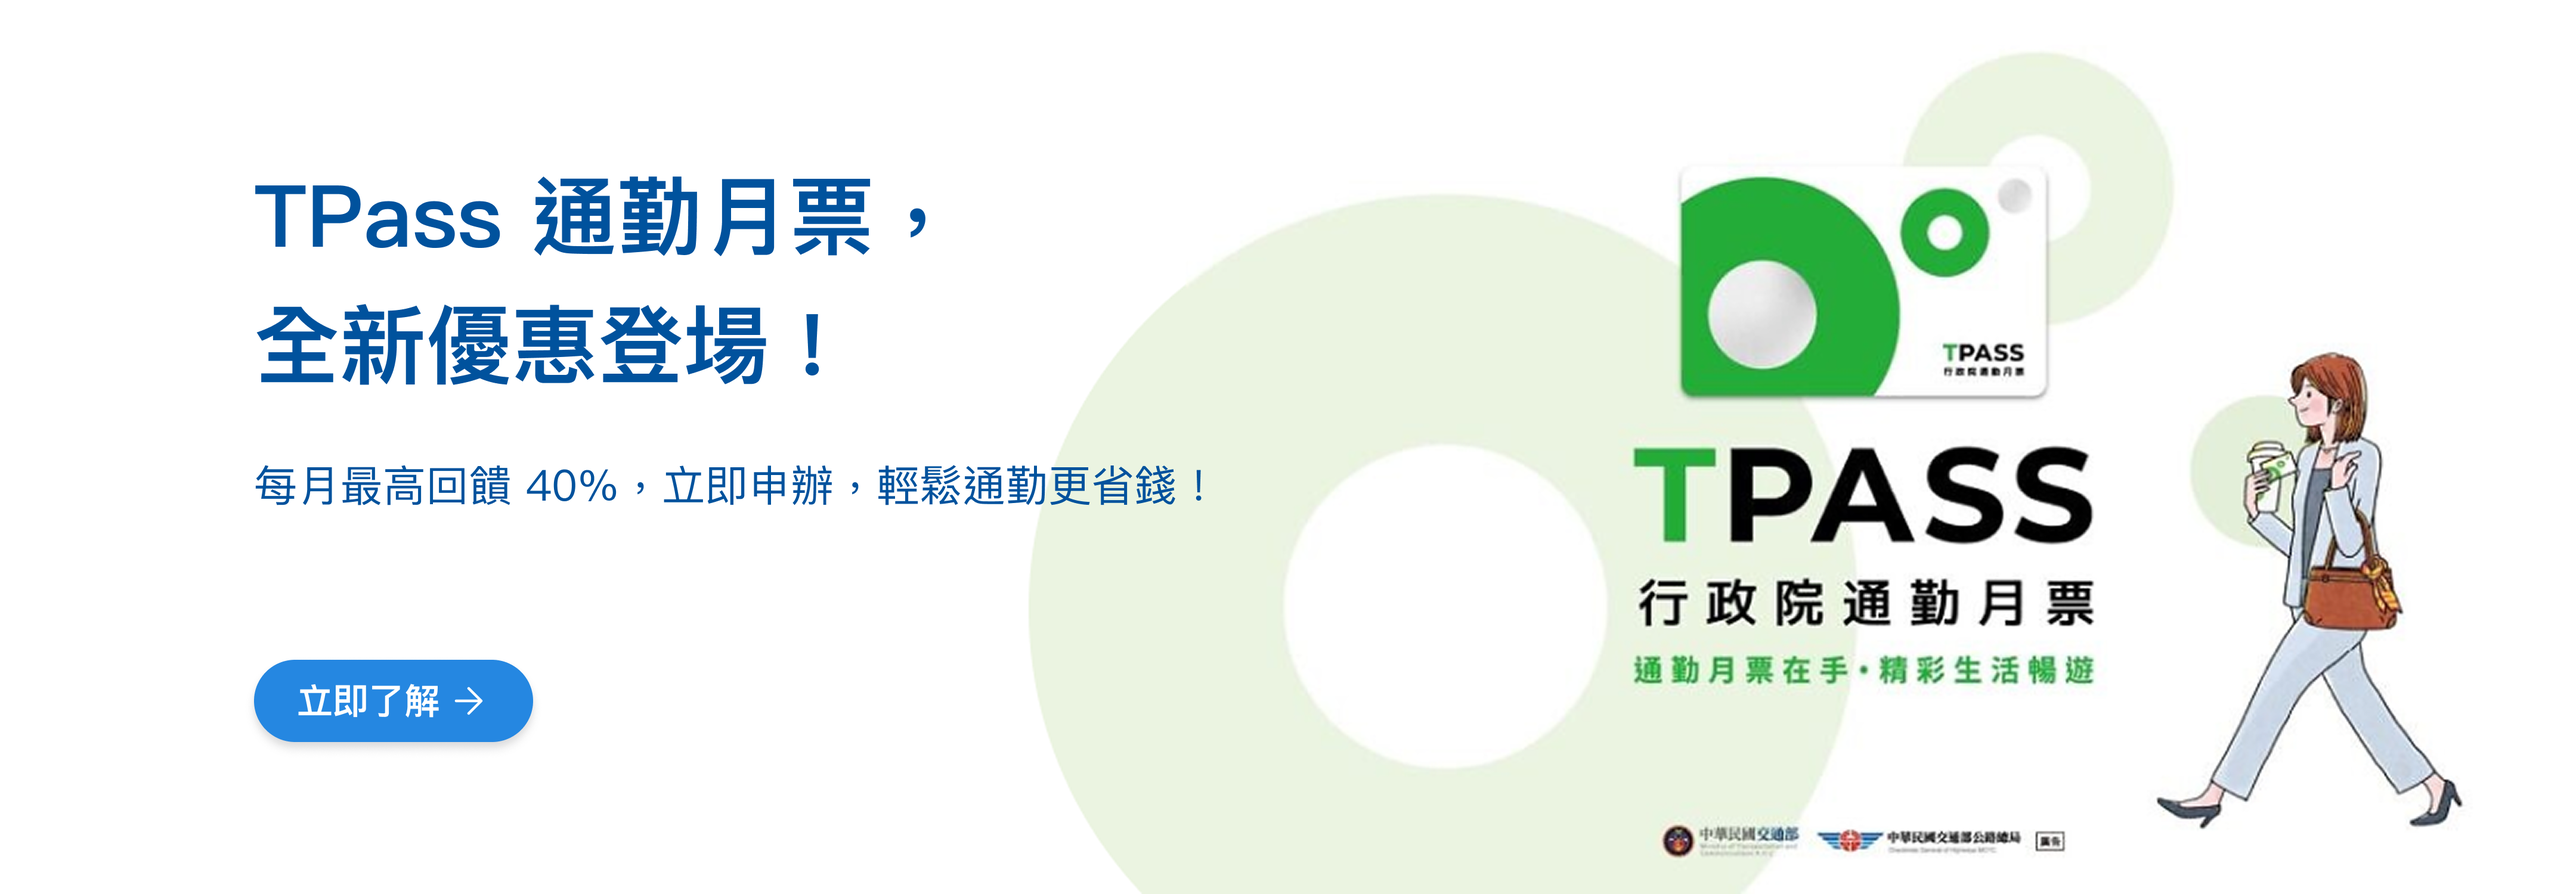
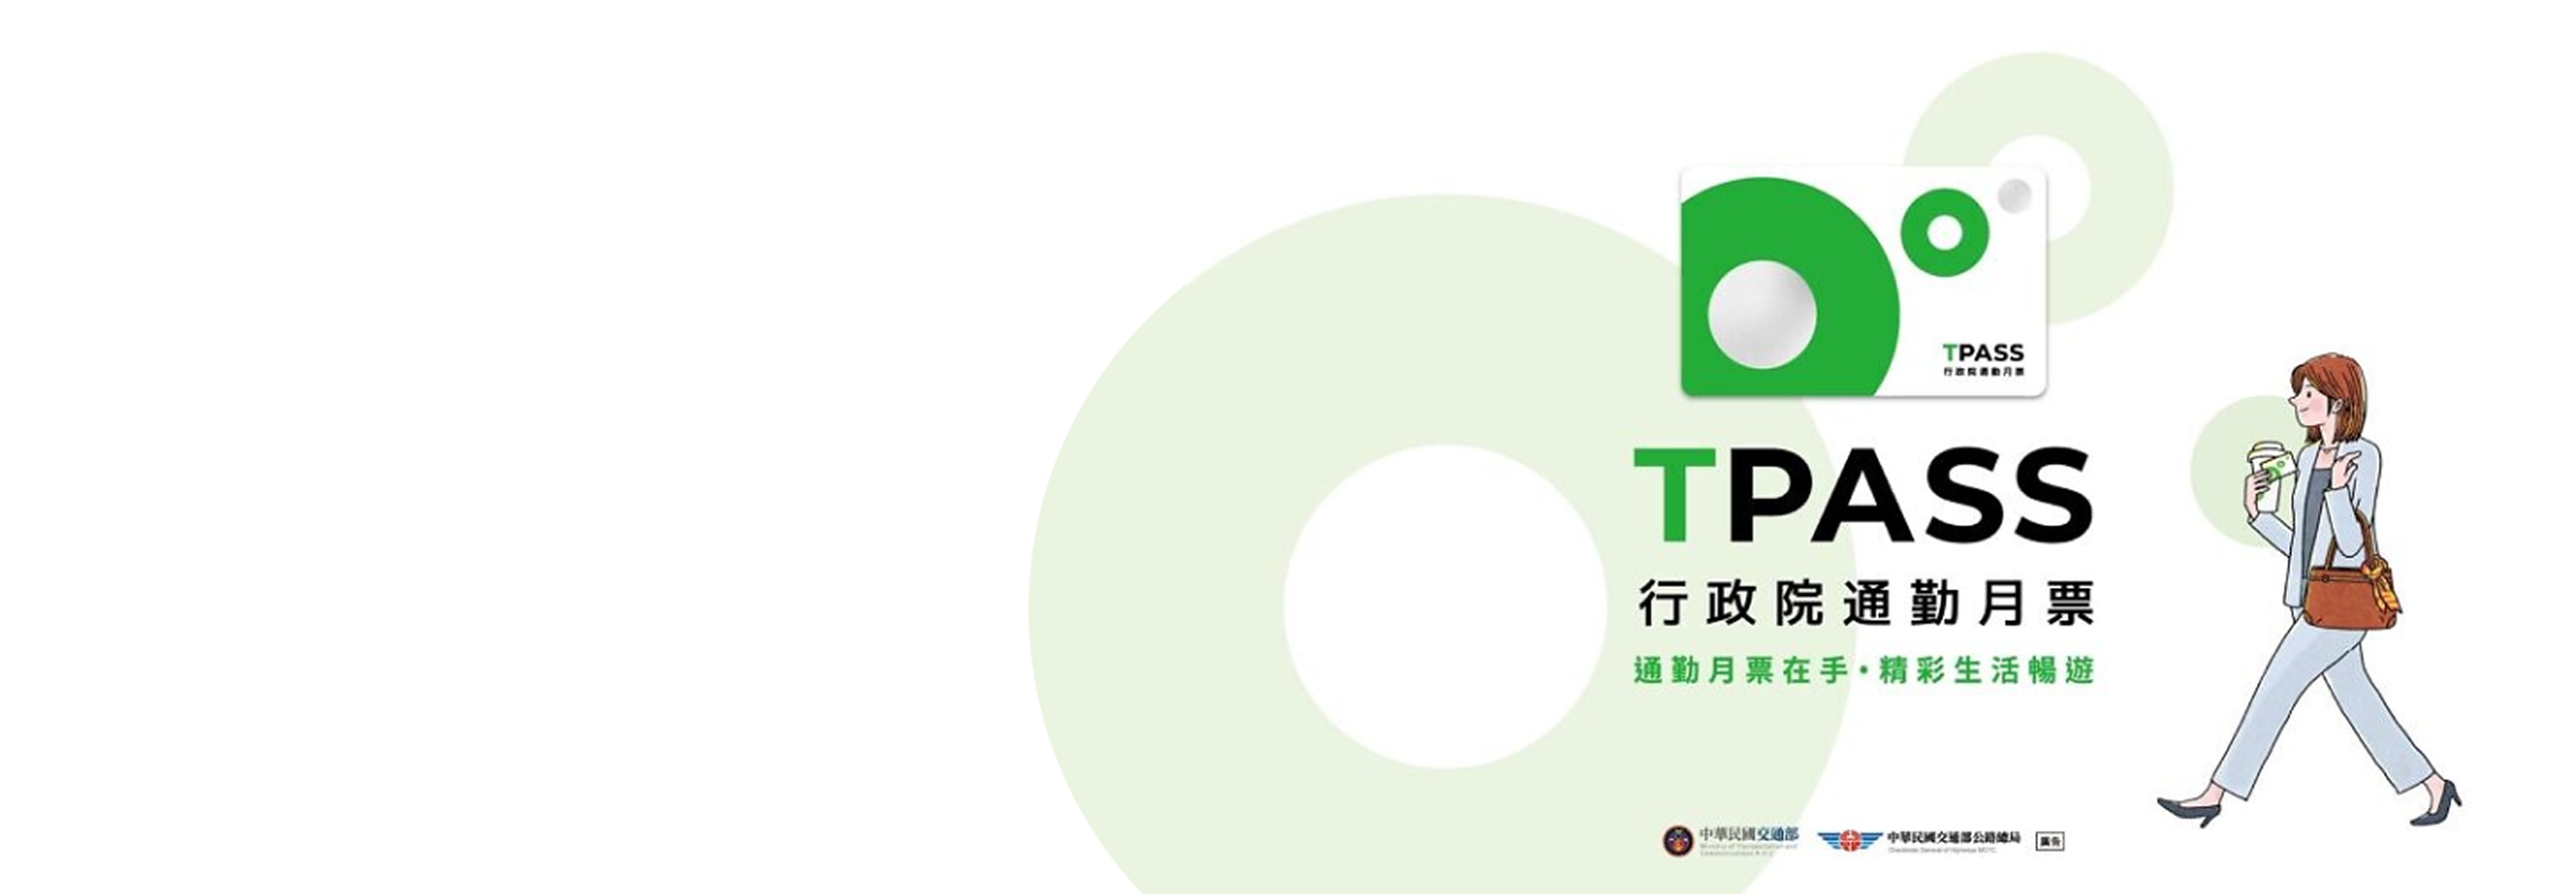
hero-section 50%

diff --git a/css/style.css b/css/style.css
@@ -1,4 +1,125 @@
+*{
+    margin: 0;
+    padding: 0;
+    box-sizing: border-box;
+    font-family: 'PingFang SC', sans-serif;
+}
 
-body{
-    background-color: orange;
+.header-1{
+    background: #002F59;
+    display: flex;
+    height: 80px;
+    padding: 8px 24px;
+    justify-content: space-between;
+    align-items: center;
+    align-self: stretch;
+        
+}
+
+.company-menu ul{
+    display: flex;
+    padding: 20px 24px;
+    justify-content: center;
+    align-items: center;
+    color: white;
+    list-style: none;
+    
+}
+
+.company-menu ul li{
+    padding: 0 20px;
+}
+
+.company-menu ul li a{
+    color: white;
+    text-decoration: none;
+}
+
+.language{
+    display: flex;
+    padding: 20px 24px;
+    align-items: center;
+    gap: 24px;
+}
+
+.language ul{
+    display: flex;
+    color: white;
+    list-style: none;
+    align-items: center;
+    gap: 8px;
+}
+
+.header-menu-bar{
+    display: flex;
+    align-items: center;
+    gap: 24px;
+    align-self: stretch;
+
+}
+
+.header-2{
+    display: flex;
+    height: 80px;
+    padding: var(--spacing-3xl, 24px);
+    background: var(--Base-White, #FFF);
+    justify-content: center;
+    align-items: center;
+    align-self: stretch;
+    border-bottom: 1px solid var(--Primay-05, #E9F5FF);
+    background: rgba(255, 255, 255, 0.85);
+    box-shadow: 0px 1px 2px 0px rgba(10, 13, 18, 0.05);
+    backdrop-filter: blur(2.5px);
+}
+
+.user-menu ul{
+    display: flex;
+    height: 80px;
+    padding: 24px;
+    justify-content: center;
+    align-items: center;
+    align-self: stretch;
+    list-style: none;
+    gap: 24px;
+    }
+
+.user-menu ul li a{
+    color: #4B4948;
+    text-decoration: none;
+}
+
+
+.hero-section{
+    width: 1440px;
+    height: 500px;
+    position: relative;
+    display: inline-flex;
+    padding: 8px 40px;
+    flex-direction: column;
+    align-items: flex-start;
+    gap: 80px;
+    
+}
+
+.hero-section-content h1{
+    color: var(--Primary-01, #00529D);
+    font-family: "PingFang TC";
+    font-size: 48px;
+    font-style: normal;
+    font-weight: 600;
+    line-height: 150%;
+
+}
+
+.hero-section-content p{
+    color: var(--Primary-01, #00529D);
+    font-family: "PingFang TC";
+    font-size: 24px;
+    font-style: normal;
+    font-weight: 400;
+    line-height: 150%;
+}
+
+.hero-image-container{
+    background: no-repeat right center;
 }

diff --git a/index.html b/index.html
@@ -8,40 +8,59 @@
 </head>
 <body>
 <div class="header-1">
+    <img src="/assets/image/dk/logo.png" alt="">
     <div class="company-menu">
         <ul>
-            <li>台鐵公司資訊</li>
-            <li>政令宣導</li>
-            <li>公司治理</li>
-            <li>行政相關</li>
-            <li>招攬資訊</li>
+            <li><a href="">台鐵公司資訊</a></li>
+            <li><a href="">政令宣導</a></li>
+            <li><a href="">公司治理</a></li>
+            <li><a href="">行政相關</a></li>
+            <li><a href="">招攬資訊</a></li>
         </ul>
     </div>
    
-    <div class="language">
-        <img src="./assets/icon/dk/svg/globe-03.svg" alt="">
-        <ul>
-            <li>中文</li>
-            <li>English</li>
-        </ul>
-    </div>
+    <div class="header-menu-bar">
+        <div class="language">
+            <img src="./assets/icon/dk/svg/globe-03.svg" alt="">
+            <ul>
+                <li>中文</li>
+                <li>English</li>
+            </ul>
+        </div>
+        
     
-<img src="./assets/icon/dk/svg/user-circle.svg" alt="">
+    </div>
+    <img src="./assets/icon/dk/svg/user-circle.svg" alt="">
 
 </div>
 
 <div class="header-2">
     <div class="user-menu">
         <ul>
-            <li>查詢車票</li>
-            <li>列車指南</li>
-            <li>旅遊資訊</li>
-            <li>特色服務</li>
-            <li>常見問題</li>
+            <li><a href="">查詢車票</a></li>
+            <li><a href="">列車指南</a></li>
+            <li><a href="">旅遊資訊</a></li>
+            <li><a href="">特色服務</a></li>
+            <li><a href="">常見問題</a></li>
         </ul>
     </div>
 </div>
 
+<div class="hero-section">
+    <div class="hero-section-content">
+        <h1>TPass 通勤月票，<br>全新優惠登場！</h1>
+        <p>每月最高回饋 40%，立即申辦，輕鬆通勤更省錢！</p>
+        <a href="" class="CTA-btn">立即了解
+        <img src="/assets/icon/dk/svg/arrow-right.svg" alt="">
+        </a>
+        
+    </div>
+    <div class="hero-image-container">
+        <img src="/assets/image/dk/hero-image.png" alt="">
+    </div>
+</div>
+
+</div>
     
 </body>
 </html>
